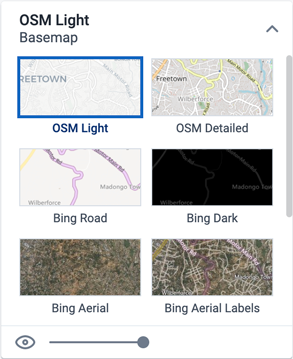
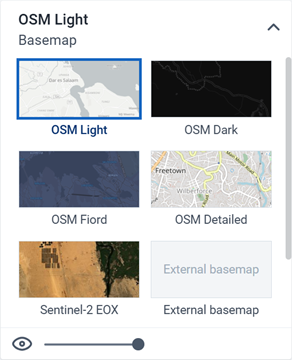
feat: replace OSM Light basemap with OpenFreeMap, add Dark and Fiord [DHIS2-22028] (#3756)
Replaces the "OSM Light" basemap's tile source with OpenFreeMap's Positron vector style, since CARTO now requires an API key even for previously free/unauthenticated requests (un-keyed requests are served with a visible watermark). Also adds two new OpenFreeMap-based basemaps, OSM Dark and OSM Fiord.

diff --git a/src/constants/basemaps.js b/src/constants/basemaps.js
@@ -1,5 +1,10 @@
 import i18n from '@dhis2/d2-i18n'
-import { TILE_LAYER, BING_LAYER, AZURE_LAYER } from '../constants/layers.js'
+import {
+    VECTOR_STYLE,
+    TILE_LAYER,
+    BING_LAYER,
+    AZURE_LAYER,
+} from '../constants/layers.js'
 
 export const FALLBACK_BASEMAP_ID = 'osmLight'
 
@@ -7,124 +12,148 @@ export const getFallbackBasemap = () => defaultBasemaps()[0]
 
 export const getBasemap = (id) => defaultBasemaps().find((map) => map.id === id)
 
-export const defaultBasemaps = () => [
-    {
-        id: FALLBACK_BASEMAP_ID,
-        name: i18n.t('OSM Light'),
-        img: 'images/osmlight.png',
-        config: {
-            type: TILE_LAYER,
-            url: '//cartodb-basemaps-{s}.global.ssl.fastly.net/light_all/{z}/{x}/{y}.png',
-            attribution:
-                '&copy; <a target="_blank" rel="noreferrer" href="https://www.openstreetmap.org/copyright">OpenStreetMap</a>, &copy; <a target="_blank" rel="noreferrer" href="https://cartodb.com/attributions">CartoDB</a>',
+let _defaultBasemaps
+
+// A function so i18n.t() resolves lazily, not at import time;
+// memoized so basemap objects still keep a stable reference across calls
+export const defaultBasemaps = () =>
+    (_defaultBasemaps ??= [
+        {
+            id: FALLBACK_BASEMAP_ID,
+            name: i18n.t('OSM Light'),
+            img: 'images/osmlight.png',
+            config: {
+                type: VECTOR_STYLE,
+                url: 'https://tiles.openfreemap.org/styles/positron',
+                labelOpacity: 0.5, // Tone down labels
+            },
+            isDark: false,
         },
-        isDark: false,
-    },
-    {
-        id: 'openStreetMap',
-        name: i18n.t('OSM Detailed'),
-        img: 'images/osm.png',
-        config: {
-            type: TILE_LAYER,
-            url: '//{s}.tile.openstreetmap.org/{z}/{x}/{y}.png',
-            attribution:
-                '&copy; <a target="_blank" rel="noreferrer" href="https://www.openstreetmap.org/copyright">OpenStreetMap</a>',
+        {
+            id: 'osmDark',
+            name: i18n.t('OSM Dark'),
+            img: 'images/osmdark.png',
+            config: {
+                type: VECTOR_STYLE,
+                url: 'https://tiles.openfreemap.org/styles/dark',
+            },
+            isDark: true,
         },
-        isDark: false,
-    },
-    {
-        id: 'sentinel2eox',
-        name: i18n.t('Sentinel-2 EOX'),
-        img: 'images/s2eox.png',
-        config: {
-            type: TILE_LAYER,
-            layers: 's2cloudless-2024_3857',
-            format: 'image/jpeg',
-            url: '//tiles.maps.eox.at',
-            attribution:
-                '&copy; <a target="_blank" rel="noreferrer" href="https://s2maps.eu/">Sentinel-2 cloudless</a> by <a target="_blank" rel="noreferrer" href="https://eox.at/">EOX IT Services GmbH</a> (Contains modified Copernicus Sentinel data 2024)',
+        {
+            id: 'osmFiord',
+            name: i18n.t('OSM Fiord'),
+            img: 'images/osmfiord.png',
+            config: {
+                type: VECTOR_STYLE,
+                url: 'https://tiles.openfreemap.org/styles/fiord',
+            },
+            isDark: true,
         },
-        isDark: true,
-    },
-    {
-        id: 'bingLight',
-        name: i18n.t('Bing Road'),
-        img: 'images/bingroad.png',
-        config: {
-            type: BING_LAYER,
-            style: 'CanvasLight',
-            apiKey: 'AotYGLQC0RDcofHC5pWLaW7k854n-6T9mTunsev9LEFwVqGaVnG8b4KERNY9PeKA', // TODO: Read from db
+        {
+            id: 'openStreetMap',
+            name: i18n.t('OSM Detailed'),
+            img: 'images/osm.png',
+            config: {
+                type: TILE_LAYER,
+                url: '//{s}.tile.openstreetmap.org/{z}/{x}/{y}.png',
+                attribution:
+                    '&copy; <a target="_blank" rel="noreferrer" href="https://www.openstreetmap.org/copyright">OpenStreetMap</a>',
+            },
+            isDark: false,
         },
-        isDark: false,
-    },
-    {
-        id: 'bingDark',
-        name: i18n.t('Bing Dark'),
-        img: 'images/bingdark.png',
-        config: {
-            type: BING_LAYER,
-            style: 'CanvasDark',
+        {
+            id: 'sentinel2eox',
+            name: i18n.t('Sentinel-2 EOX'),
+            img: 'images/s2eox.png',
+            config: {
+                type: TILE_LAYER,
+                layers: 's2cloudless-2024_3857',
+                format: 'image/jpeg',
+                url: '//tiles.maps.eox.at',
+                attribution:
+                    '&copy; <a target="_blank" rel="noreferrer" href="https://s2maps.eu/">Sentinel-2 cloudless</a> by <a target="_blank" rel="noreferrer" href="https://eox.at/">EOX IT Services GmbH</a> (Contains modified Copernicus Sentinel data 2024)',
+            },
+            isDark: true,
         },
-        isDark: true,
-    },
-    {
-        id: 'bingAerial',
-        name: i18n.t('Bing Aerial'),
-        img: 'images/bingaerial.jpeg',
-        config: {
-            type: BING_LAYER,
-            style: 'Aerial',
+        {
+            id: 'bingLight',
+            name: i18n.t('Bing Road'),
+            img: 'images/bingroad.png',
+            config: {
+                type: BING_LAYER,
+                style: 'CanvasLight',
+                apiKey: 'AotYGLQC0RDcofHC5pWLaW7k854n-6T9mTunsev9LEFwVqGaVnG8b4KERNY9PeKA', // TODO: Read from db
+            },
+            isDark: false,
         },
-        isDark: true,
-    },
-    {
-        id: 'bingHybrid',
-        name: i18n.t('Bing Aerial Labels'),
-        img: 'images/binghybrid.jpeg',
-        config: {
-            type: BING_LAYER,
-            style: 'AerialWithLabelsOnDemand',
+        {
+            id: 'bingDark',
+            name: i18n.t('Bing Dark'),
+            img: 'images/bingdark.png',
+            config: {
+                type: BING_LAYER,
+                style: 'CanvasDark',
+            },
+            isDark: true,
         },
-        isDark: true,
-    },
-    {
-        id: 'azureLight',
-        name: i18n.t('Azure Road'),
-        img: 'images/azureroad.png',
-        config: {
-            type: AZURE_LAYER,
-            style: ['microsoft.base.road'],
+        {
+            id: 'bingAerial',
+            name: i18n.t('Bing Aerial'),
+            img: 'images/bingaerial.jpeg',
+            config: {
+                type: BING_LAYER,
+                style: 'Aerial',
+            },
+            isDark: true,
         },
-        isDark: false,
-    },
-    {
-        id: 'azureDark',
-        name: i18n.t('Azure Dark'),
-        img: 'images/azuredark.png',
-        config: {
-            type: AZURE_LAYER,
-            style: ['microsoft.base.darkgrey'],
+        {
+            id: 'bingHybrid',
+            name: i18n.t('Bing Aerial Labels'),
+            img: 'images/binghybrid.jpeg',
+            config: {
+                type: BING_LAYER,
+                style: 'AerialWithLabelsOnDemand',
+            },
+            isDark: true,
         },
-        isDark: true,
-    },
-    {
-        id: 'azureAerial',
-        name: i18n.t('Azure Aerial'),
-        img: 'images/azureaerial.png',
-        config: {
-            type: AZURE_LAYER,
-            style: ['microsoft.imagery'],
+        {
+            id: 'azureLight',
+            name: i18n.t('Azure Road'),
+            img: 'images/azureroad.png',
+            config: {
+                type: AZURE_LAYER,
+                style: ['microsoft.base.road'],
+            },
+            isDark: false,
         },
-        isDark: true,
-    },
-    {
-        id: 'azureHybrid',
-        name: i18n.t('Azure Aerial Labels'),
-        img: 'images/azurehybrid.png',
-        config: {
-            type: AZURE_LAYER,
-            style: ['microsoft.imagery', 'microsoft.base.hybrid.road'],
+        {
+            id: 'azureDark',
+            name: i18n.t('Azure Dark'),
+            img: 'images/azuredark.png',
+            config: {
+                type: AZURE_LAYER,
+                style: ['microsoft.base.darkgrey'],
+            },
+            isDark: true,
         },
-        isDark: true,
-    },
-]
+        {
+            id: 'azureAerial',
+            name: i18n.t('Azure Aerial'),
+            img: 'images/azureaerial.png',
+            config: {
+                type: AZURE_LAYER,
+                style: ['microsoft.imagery'],
+            },
+            isDark: true,
+        },
+        {
+            id: 'azureHybrid',
+            name: i18n.t('Azure Aerial Labels'),
+            img: 'images/azurehybrid.png',
+            config: {
+                type: AZURE_LAYER,
+                style: ['microsoft.imagery', 'microsoft.base.hybrid.road'],
+            },
+            isDark: true,
+        },
+    ])

diff --git a/src/util/__tests__/app.spec.js b/src/util/__tests__/app.spec.js
@@ -39,7 +39,7 @@ describe('utils/app - providerDataTransformation', () => {
         externalMapLayers: [
             {
                 mapService: 'XYZ',
-                url: 'https://a.tiles.mapbox.com/v4/worldbank-education.pebkgmlc/{z}/{x}/{y}.png?access_token=pk.eyJ1Ijoid29ybGRiYW5rLWVkdWNhdGlvbiIsImEiOiJIZ2VvODFjIn0.TDw5VdwGavwEsch53sAVxA',
+                url: 'https://a.tiles.mapbox.com/v4/worldbank-education.pebkgmlc/{z}/{x}/{y}.png?access_token=FAKE_TOKEN_FOR_TESTS',
                 attribution: 'OpenAerialMap / Tanzania Open Data Initiative',
                 imageFormat: 'PNG',
                 mapLayerPosition: 'BASEMAP',
@@ -124,7 +124,7 @@ describe('utils/app - providerDataTransformation', () => {
             systemInfo,
         })
 
-        expect(cfg.basemaps).toHaveLength(10)
+        expect(cfg.basemaps).toHaveLength(12)
         expect(cfg.nameProperty).toEqual('displayName')
         expect(cfg.defaultLayerSources).toHaveLength(6)
         expect(cfg.currentUser.username).toEqual('admin')
@@ -180,7 +180,7 @@ describe('utils/app - providerDataTransformation', () => {
             systemInfo,
         })
 
-        expect(cfg.basemaps).toHaveLength(6)
+        expect(cfg.basemaps).toHaveLength(8)
         expect(cfg.nameProperty).toEqual('displayShortName')
         expect(cfg.defaultLayerSources).toHaveLength(6)
         expect(cfg.currentUser).toMatchObject({

diff --git a/src/components/layers/basemaps/BasemapCard.jsx b/src/components/layers/basemaps/BasemapCard.jsx
@@ -9,7 +9,6 @@ import {
     toggleBasemapVisibility,
     selectBasemap,
 } from '../../../actions/basemap.js'
-import { VECTOR_STYLE } from '../../../constants/layers.js'
 import useBasemapConfig from '../../../hooks/useBasemapConfig.js'
 import LayerCard from '../LayerCard.jsx'
 import BasemapList from './BasemapList.jsx'
@@ -34,7 +33,6 @@ const BasemapCard = (props) => {
                 </ComponentCover>
             ) : (
                 <LayerCard
-                    hasOpacity={basemap.config.type !== VECTOR_STYLE}
                     title={basemap.name}
                     subtitle={subtitle}
                     opacity={basemap.opacity}

diff --git a/docs/maps.md b/docs/maps.md
@@ -127,6 +127,9 @@ The following basemaps are available by default:
 
 -   **OSM Light**: A minimal, light-colored map based on OpenStreetMap data. This is the default
     basemap.
+-   **OSM Dark**: A dark-themed map based on OpenStreetMap data. Useful when the colors on your data
+    layers are bright.
+-   **OSM Fiord**: A muted, blue-toned map based on OpenStreetMap data.
 -   **OSM Detailed**: Contains more map features and place names.
 -   **Sentinel-2 EOX**: Cloud-free satellite imagery showing natural-color views of the Earth's
     surface at 10m resolution.

diff --git a/docs/src/03-basemaps.md b/docs/src/03-basemaps.md
@@ -7,6 +7,9 @@ The following basemaps are available by default:
 
 -   **OSM Light**: A minimal, light-colored map based on OpenStreetMap data. This is the default
     basemap.
+-   **OSM Dark**: A dark-themed map based on OpenStreetMap data. Useful when the colors on your data
+    layers are bright.
+-   **OSM Fiord**: A muted, blue-toned map based on OpenStreetMap data.
 -   **OSM Detailed**: Contains more map features and place names.
 -   **Sentinel-2 EOX**: Cloud-free satellite imagery showing natural-color views of the Earth's
     surface at 10m resolution.
